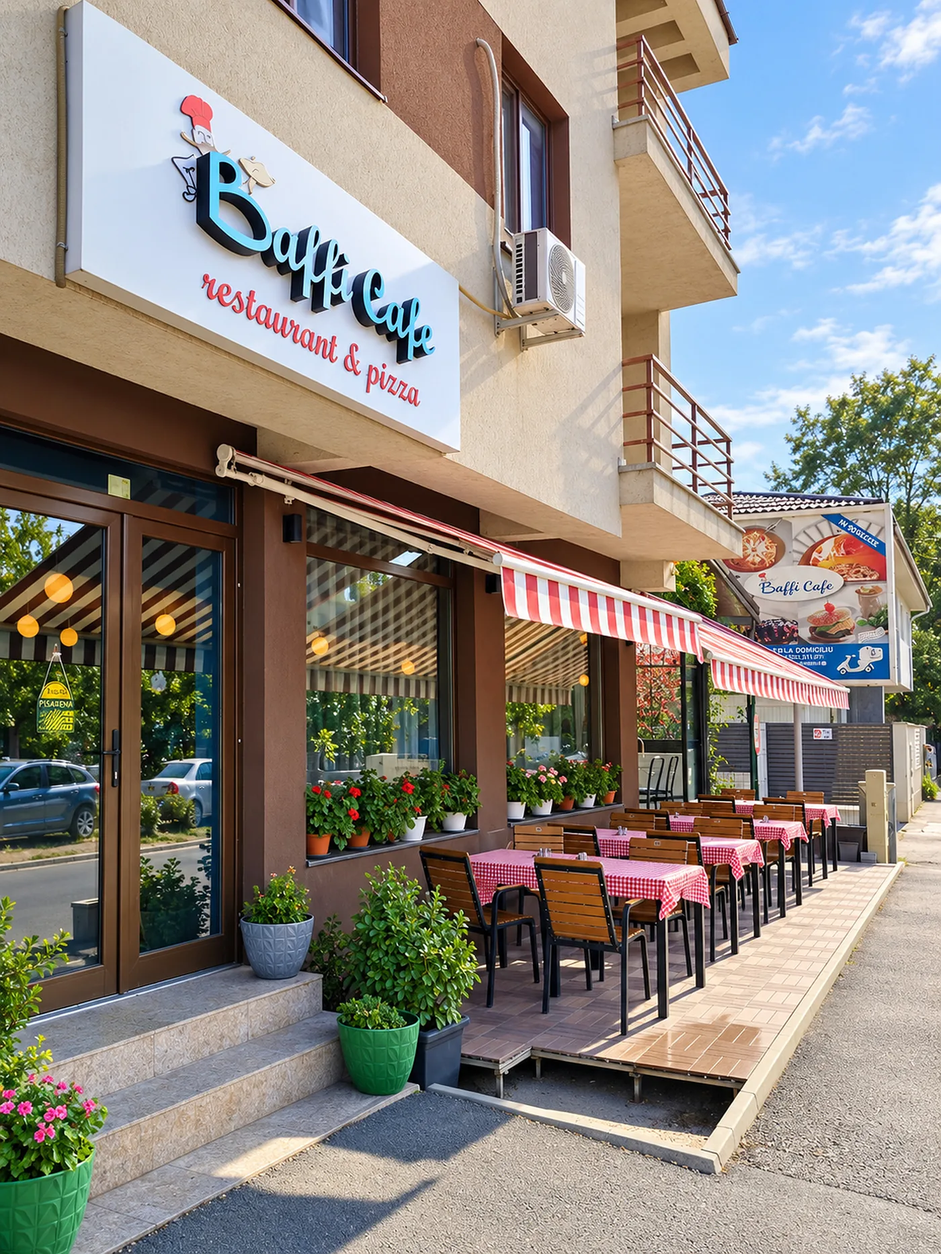
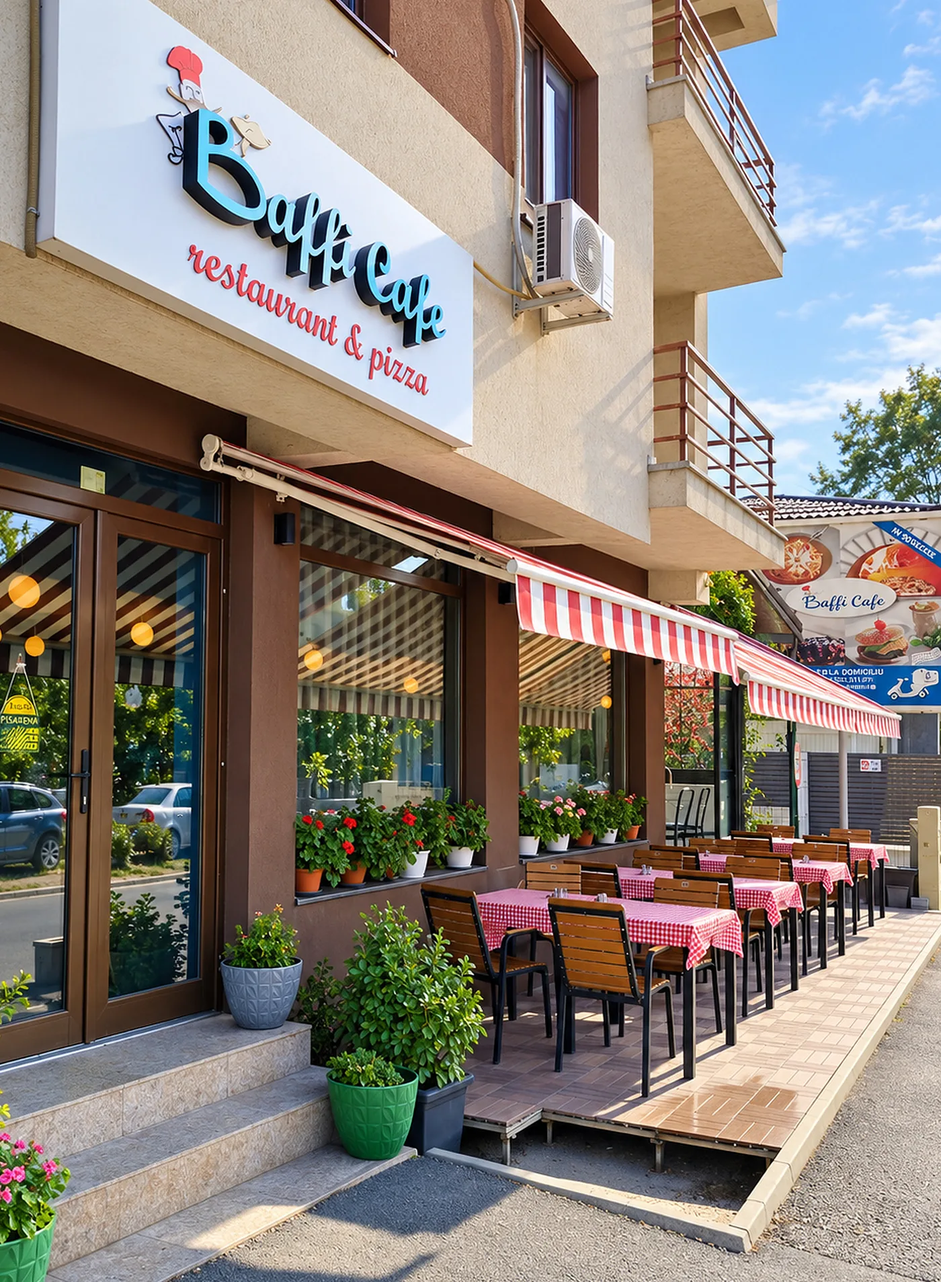
Fotografiile, taiate si indreptate

diff --git a/index.html b/index.html
@@ -359,7 +359,7 @@ p{margin:0}
 @media(max-width:959px){.hero-media{min-height:540px;margin:0 18px 18px}}
 @media(max-width:680px){.hero-media{min-height:410px;margin:0 9px 9px;border-radius:19px}}
 .hero-media img{position:absolute;inset:0;width:100%;height:100%;object-fit:cover;
-  object-position:center 34%}   /* firma de deasupra usii ramane in cadru */
+  object-position:center 42%}   /* dupa taiere, firma e aproape la mijloc */
 .hero-media::after{content:"";position:absolute;inset:0;
   background:linear-gradient(90deg,var(--navy) 0%,rgba(7,28,44,.55) 26%,rgba(7,28,44,0) 62%)}
 @media(max-width:959px){.hero-media{order:2}
@@ -1274,7 +1274,7 @@ p{margin:0}
       </div>
     </div>
     <div class="hero-media">
-      <img src="img/baffi-entrance-premium-v6.webp" alt="Intrarea în Baffi Cafe din Bragadiru" width="1400" height="1866" fetchpriority="high" decoding="async">
+      <img src="img/baffi-entrance-premium-v6.webp" alt="Intrarea în Baffi Cafe din Bragadiru" width="1400" height="1410" fetchpriority="high" decoding="async">
     </div>
   </div>
 </section>
@@ -1444,9 +1444,9 @@ p{margin:0}
   <div class="wrap">
     <div class="split rv">
       <div class="despre-foto">
-        <img src="img/baffi-entrance-premium-v6-900.webp"
+        <img src="img/baffi-intrare-inalta-900.webp"
              alt="Intrarea în Baffi Cafe, Bragadiru"
-             loading="lazy" decoding="async" width="900" height="1200">
+             loading="lazy" decoding="async" width="900" height="1238">
       </div>
       <div class="despre-text">
         <span class="eyebrow">Din 2018, pe Safirului</span>
@@ -1682,7 +1682,7 @@ p{margin:0}
         </div>
       </div>
       <div class="map-card">
-        <img src="img/baffi-parking-premium-v2.webp" alt="Parcarea de vizavi de Baffi Cafe" loading="lazy" width="1100" height="619">
+        <img src="img/baffi-parking-premium-v2.webp" alt="Parcarea de vizavi de Baffi Cafe" loading="lazy" width="1400" height="785">
         <div class="mc-b">
           <b>Parcare vizavi</b>
           <span>Ajungi ușor și parchezi aproape — chiar peste drum de intrare.</span>
@@ -1903,7 +1903,7 @@ p{margin:0}
 <div class="toast" id="toast"></div>
 <script src="meniu-date.js"></script>
 <script>
-window.BAFFI_VERSIUNE='8.6';
+window.BAFFI_VERSIUNE='8.7';
 /* ============================================================
    BAFFI v4 — logica paginii. Fără framework, fără build.
    Tot ce are dată se stinge singur (vezi EVENTS + HOURS).
